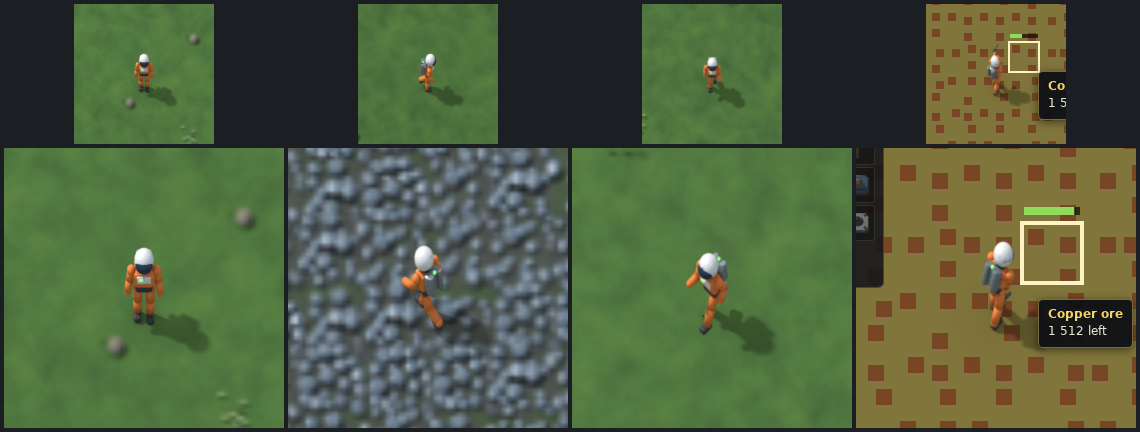
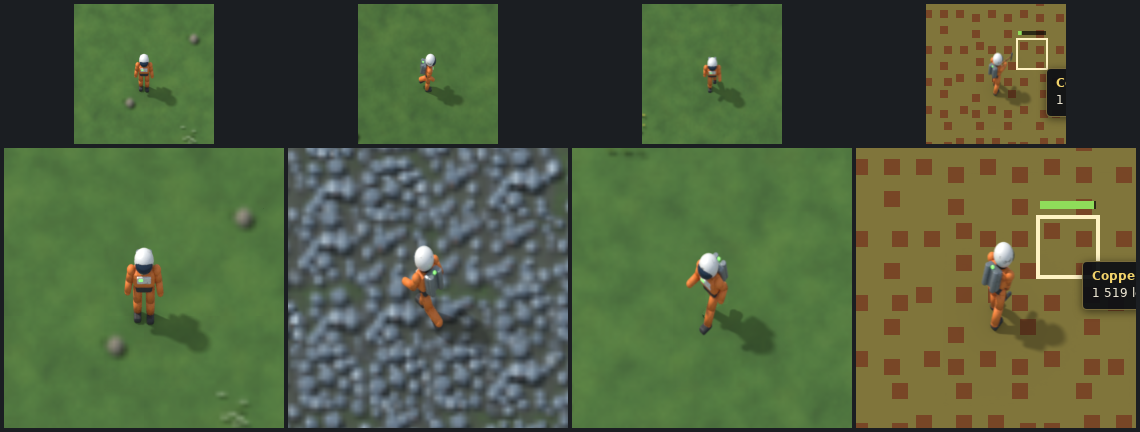
test(e2e): take the 2x mining shot after the mined amount is checked

Changed region(s): [[0.7368, 0.0, 1.0, 0.9931]]

diff --git a/tests/e2e/player.spec.ts b/tests/e2e/player.spec.ts
@@ -1,4 +1,4 @@
-import { expect, test, type Page } from '@playwright/test';
+import { expect, test, type Page, type TestInfo } from '@playwright/test';
 import { ITEMS, MINED_ITEM } from '../../src/data/items';
 import { ResourceId } from '../../src/data/resources';
 import { STARTING_KIT } from '../../src/data/start';
@@ -19,6 +19,22 @@ function collectErrors(page: Page): string[] {
   });
   page.on('pageerror', (err) => errors.push(`pageerror: ${err.message}`));
   return errors;
+}
+
+/** A screenshot of the `size`² pixels around the screen's center (where the followed player stands). */
+async function shootPlayer(page: Page, testInfo: TestInfo, file: string, size: number) {
+  const view = page.viewportSize()!;
+  const shot = testInfo.outputPath(file);
+  await page.screenshot({
+    path: shot,
+    clip: {
+      x: view.width / 2 - size / 2,
+      y: view.height / 2 - size * 0.6,
+      width: size,
+      height: size,
+    },
+  });
+  await testInfo.attach(file, { path: shot, contentType: 'image/png' });
 }
 
 async function open(page: Page): Promise<void> {
@@ -166,30 +182,9 @@ test('walk to an ore tile, mine it for 2 s, and find the ore in the inventory', 
   });
 
   // Drawn swinging a pickaxe at the tile (D67), facing it.
-  const sprite = await page.evaluate(() => window.__beltworks!.playerSprite());
-  expect(sprite?.pose).toBe('mine');
-  const view = page.viewportSize()!;
-  for (const zoom of [1, 2]) {
-    const p = await player(page);
-    await page.evaluate(
-      ([x, y, z]) => window.__beltworks!.setCamera(x!, y!, z),
-      [p.x * TILE_PX, p.y * TILE_PX, zoom],
-    );
-    await page.keyboard.press('f');
-    await page.waitForTimeout(300);
-    const size = 140 * zoom;
-    const clip = testInfo.outputPath(`art-player-mine-${zoom}x.png`);
-    await page.screenshot({
-      path: clip,
-      clip: {
-        x: view.width / 2 - size / 2,
-        y: view.height / 2 - size * 0.6,
-        width: size,
-        height: size,
-      },
-    });
-    await testInfo.attach(`player mining at ${zoom}x`, { path: clip, contentType: 'image/png' });
-  }
+  expect((await page.evaluate(() => window.__beltworks!.playerSprite()))?.pose).toBe('mine');
+  // The camera stays put while the button is held: moving it would mine the tile now under the pointer.
+  await shootPlayer(page, testInfo, 'art-player-mine-1x.png', 140);
 
   await page.mouse.up({ button: 'right' });
   await expect.poll(async () => (await player(page)).mining).toBe(false);
@@ -206,5 +201,21 @@ test('walk to an ore tile, mine it for 2 s, and find the ore in the inventory', 
   // E closes the panel again.
   await page.keyboard.press('e');
   await expect(panel).toBeHidden();
+
+  // Mining once more at 2× zoom, for the screenshot: aim at the tile again after zooming.
+  await page.evaluate(
+    ([x, y]) => window.__beltworks!.setCamera(x!, y!, 2),
+    [stand.x * TILE_PX, stand.y * TILE_PX],
+  );
+  await page.keyboard.press('f');
+  const again = await page.evaluate(([x, y]) => window.__beltworks!.tileToScreen(x!, y!), [tx, ty]);
+  await page.mouse.move(again.x, again.y);
+  await page.mouse.down({ button: 'right' });
+  await expect
+    .poll(async () => (await page.evaluate(() => window.__beltworks!.playerSprite()))?.pose)
+    .toBe('mine');
+  await page.waitForTimeout(300);
+  await shootPlayer(page, testInfo, 'art-player-mine-2x.png', 280);
+  await page.mouse.up({ button: 'right' });
   expect(errors).toEqual([]);
 });
